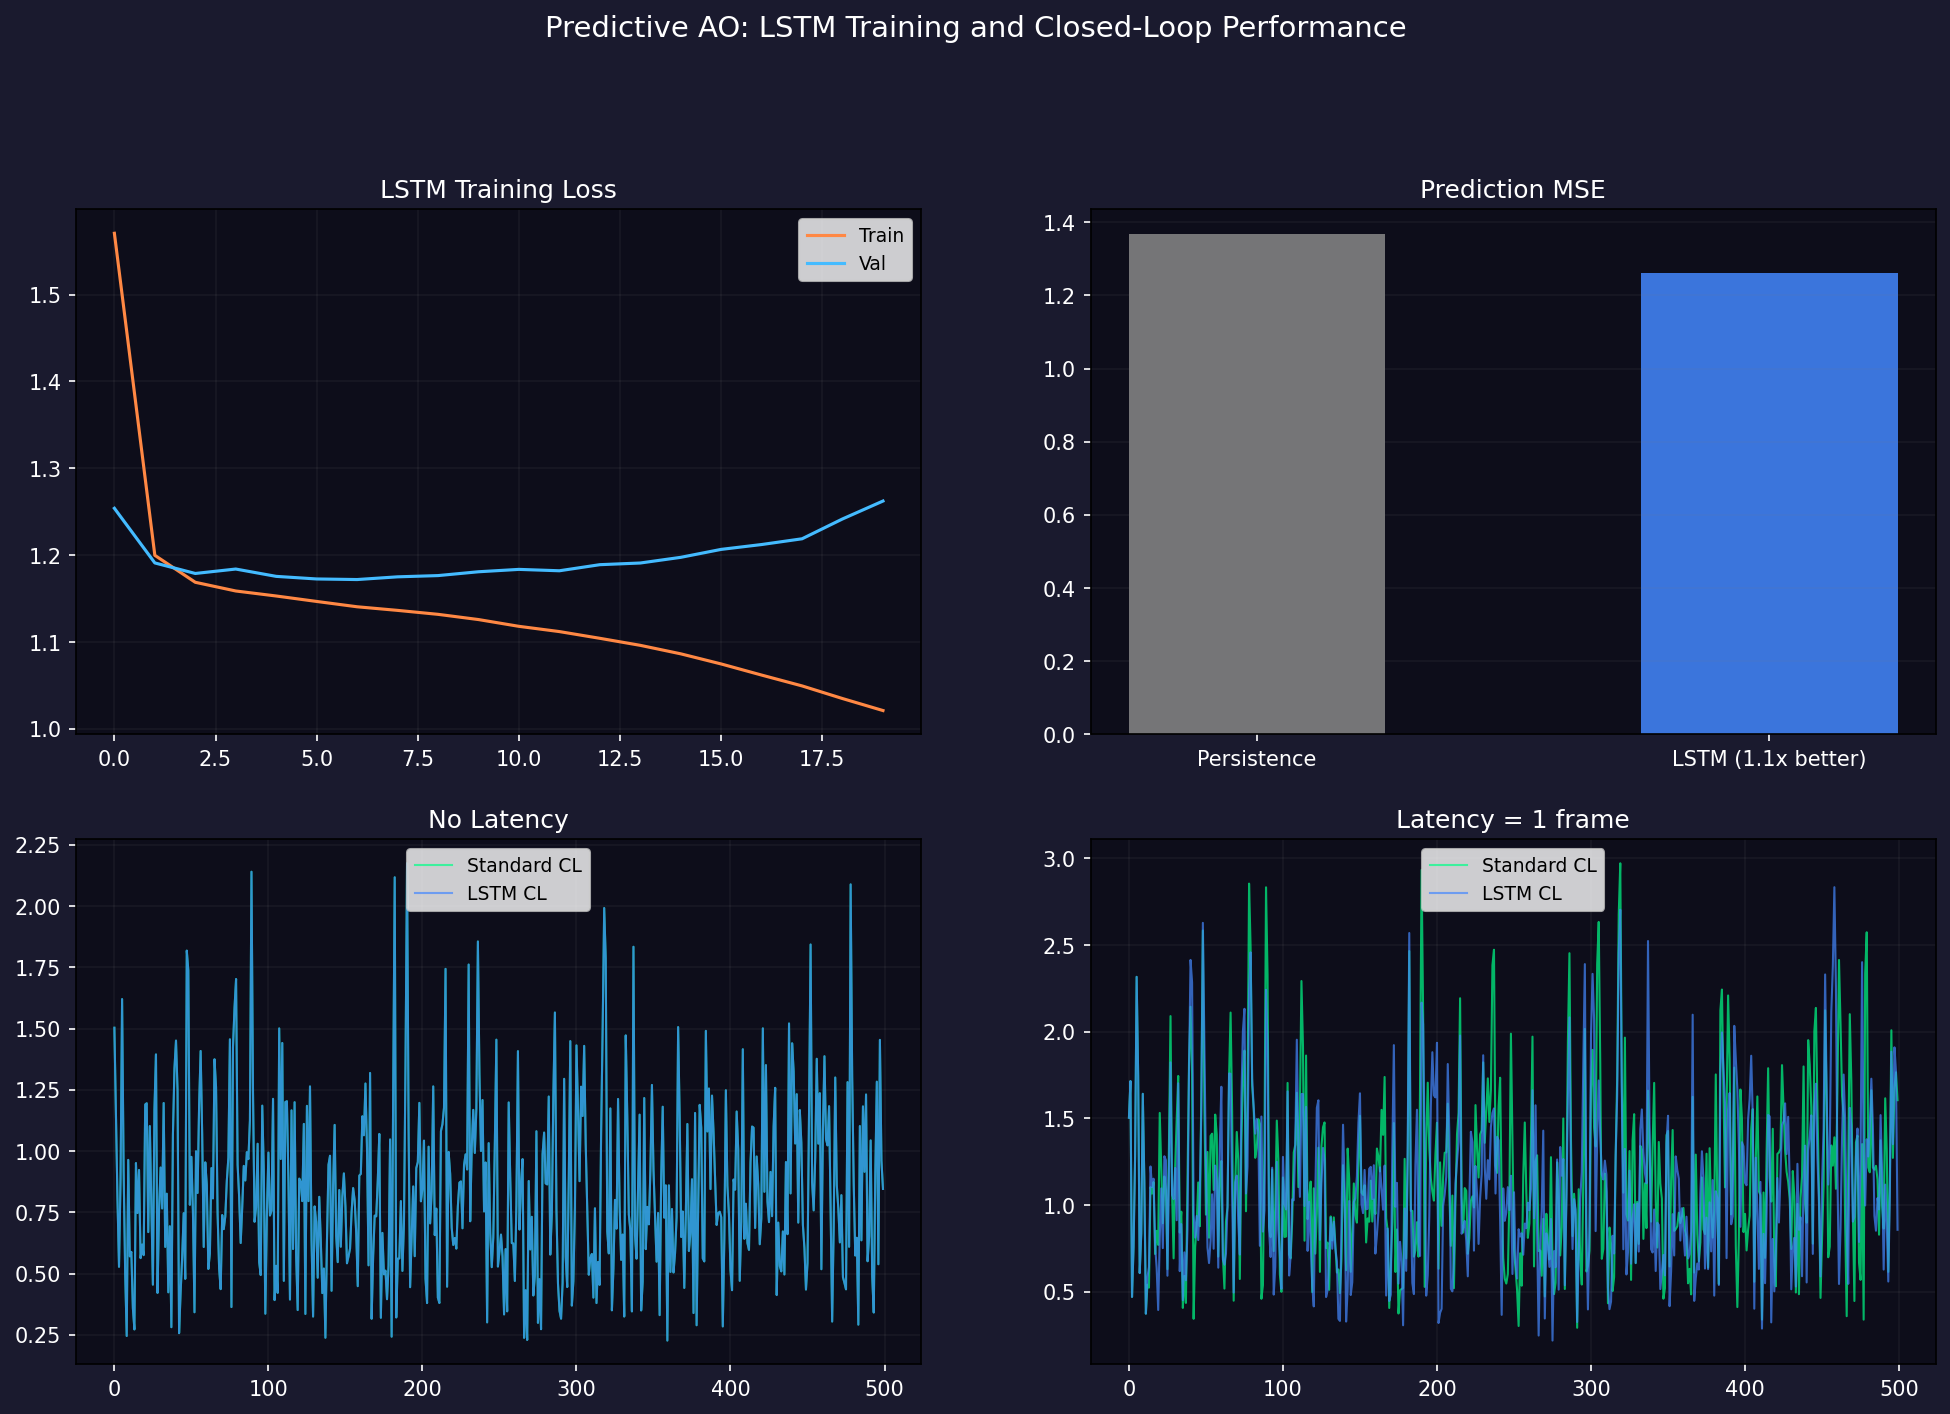
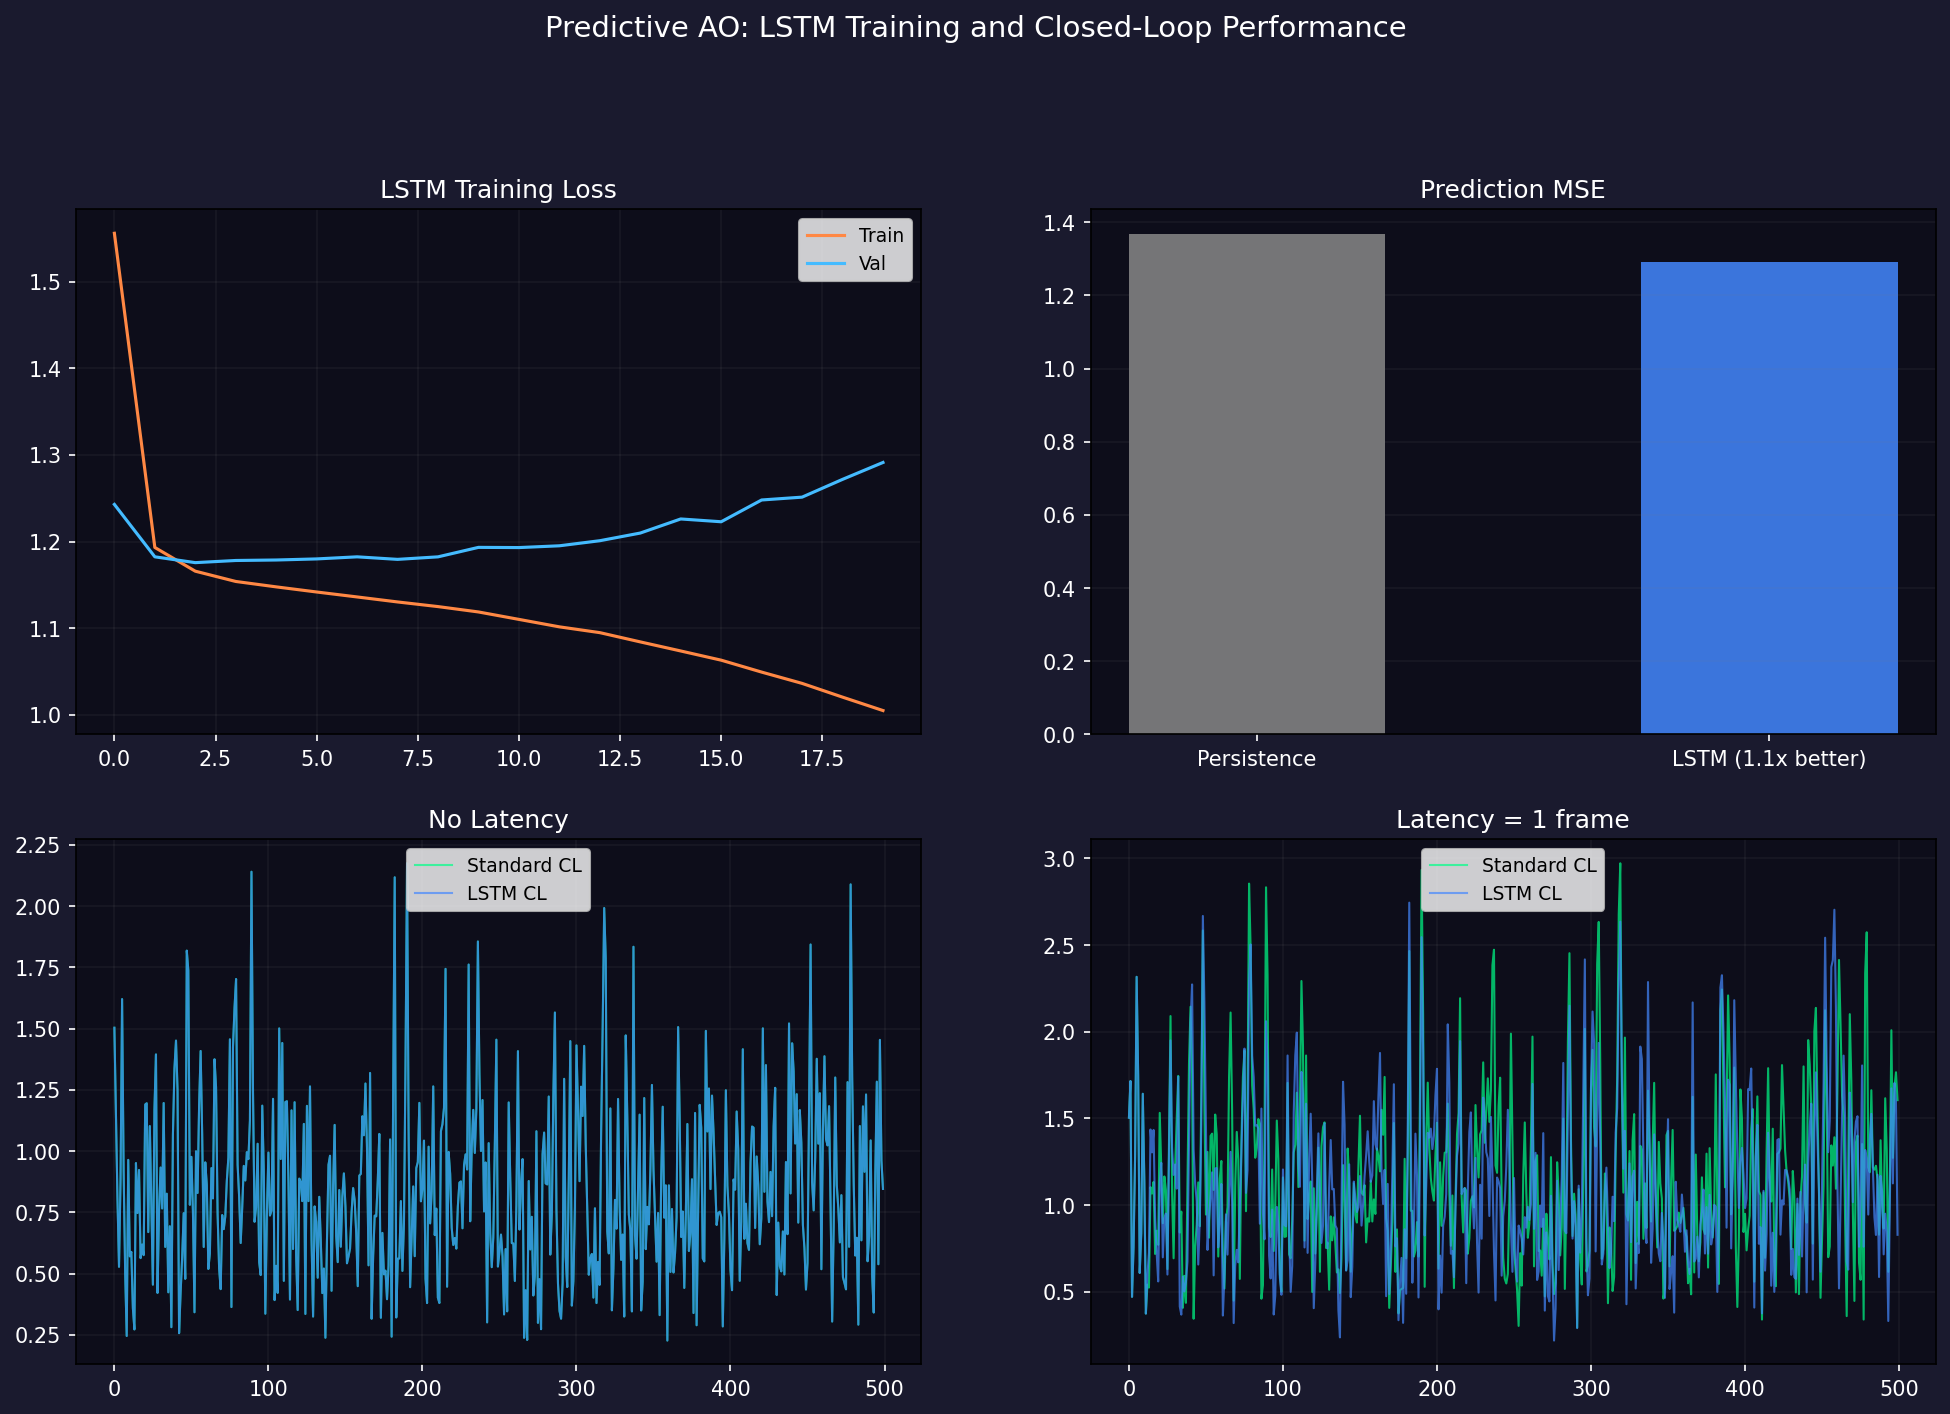
Harden BMP reader, implement C ground-truth validation, add reproduction script, and enable CI training

diff --git a/rippra/tools/reproduce_all.py b/rippra/tools/reproduce_all.py
@@ -1,0 +1,93 @@
+#!/usr/bin/env python3
+"""
+reproduce_all.py - Automates calibration, lightweight dataset generation,
+model training, and ONNX validation checks to ensure full reproducibility of the ML pipeline.
+"""
+import os
+import subprocess
+import sys
+
+def run_command(cmd, shell=False):
+    print(f"\nExecuting: {cmd}")
+    res = subprocess.run(cmd, shell=shell, capture_output=True, encoding='utf-8')
+    if res.returncode != 0:
+        print(f"ERROR: command failed with code {res.returncode}")
+        print(f"STDOUT:\n{res.stdout}")
+        print(f"STDERR:\n{res.stderr}")
+        sys.exit(res.returncode)
+    print("SUCCESS")
+    return res.stdout
+
+def main():
+    try:
+        import sys
+        sys.stdout.reconfigure(encoding='utf-8')
+        sys.stderr.reconfigure(encoding='utf-8')
+    except AttributeError:
+        pass
+    base_dir = os.path.dirname(os.path.dirname(os.path.abspath(__file__)))
+    os.chdir(base_dir)
+    print(f"Current working directory: {os.getcwd()}")
+
+    # 1. Run C calibration/centroid test to generate results/reference_centroids_c.csv
+    import platform
+    is_windows = (platform.system() == 'Windows')
+    
+    lib_path = os.path.join("bin", "librippra.a") if is_windows else os.path.join("build", "librippra.a")
+    centroid_exe = os.path.join("bin", "test_centroid.exe") if is_windows else os.path.join("bin", "test_centroid")
+    
+    os.makedirs("bin", exist_ok=True)
+    os.makedirs("build", exist_ok=True)
+
+    print("--- Step 1: Ensure C library and calibration tools are built ---")
+    if not os.path.exists(lib_path):
+        print(f"  Building static C library: {lib_path}")
+        src_files = ["io.c", "la.c", "centroid.c", "recon.c", "rippra_api.c"]
+        for f in src_files:
+            obj = f.replace(".c", ".o")
+            run_command(f"gcc -std=c99 -Wall -Wextra -O2 -DNDEBUG -Iinclude -c src/{f} -o build/{obj}", shell=True)
+        objs_str = " ".join([f"build/{f.replace('.c', '.o')}" for f in src_files])
+        run_command(f"ar rcs {lib_path} {objs_str}", shell=True)
+        
+    if not os.path.exists(centroid_exe):
+        print(f"  Compiling calibration tool: {centroid_exe}")
+        run_command(f"gcc -std=c99 -Wall -Wextra -D_POSIX_SOURCE -O2 -DNDEBUG -Iinclude tests/test_centroid.c {lib_path} -lm -o {centroid_exe}", shell=True)
+        
+    run_command([centroid_exe])
+
+    # 2. Generate a lightweight ML dataset (500 samples)
+    print("\n--- Step 2: Generate lightweight Kolmogorov dataset (500 samples) ---")
+    run_command([
+        sys.executable, "tools/generate_dataset.py",
+        "--samples", "500",
+        "--out", "data_ai/dataset.npz",
+        "--noise", "0.1",
+        "--seed", "42"
+    ])
+
+    # 3. Train a lightweight MLP reconstructor (3 epochs) to create PyTorch checkpoints
+    print("\n--- Step 3: Train MLP model for 3 epochs ---")
+    run_command([
+        sys.executable, "ml/train.py",
+        "--model", "mlp",
+        "--epochs", "3",
+        "--batch_size", "32",
+        "--lr", "1e-3",
+        "--dataset", "data_ai/dataset.npz",
+        "--out_dir", "ml_checkpoints/local"
+    ])
+
+    # 4. Run ONNX validation checks
+    print("\n--- Step 4: Validate ONNX models ---")
+    run_command([sys.executable, "ml/test_onnx_models.py"])
+
+    # 5. Run Predictive AO evaluation
+    print("\n--- Step 5: Run predictive AO simulation ---")
+    run_command([sys.executable, "ml/predictive_ao.py"])
+
+    print("\n=======================================================")
+    print("=== All reproducibility steps executed successfully ===")
+    print("=======================================================")
+
+if __name__ == "__main__":
+    main()

diff --git a/rippra/tests/test_full_pipeline.c b/rippra/tests/test_full_pipeline.c
@@ -28,6 +28,14 @@ static int test_count = 0, pass_count = 0;
     } \
 } while(0)
 
+static int load_raw_array(const char *path, int size, double *out_data) {
+    FILE *fp = fopen(path, "rb");
+    if (!fp) return -1;
+    size_t read_vals = fread(out_data, sizeof(double), size, fp);
+    fclose(fp);
+    return (read_vals == (size_t)size) ? 0 : -2;
+}
+
 int main(void)
 {
     rippa_config cfg;
@@ -229,6 +237,49 @@ int main(void)
         
         free(cl_dm); free(cl_step); free(cl_run);
         free(residual); free(res2); free(res3);
+    }
+
+    /* ---- Step 9: Ground Truth Validation & Strehl Ratio ---- */
+    if (dx && dy && coeffs && phase && zmesh.nnodes > 0 && nmodes > 0) {
+        double *coeffs_gt = (double*)malloc(nmodes * sizeof(double));
+        double *dx_gt = (double*)malloc(nspots * sizeof(double));
+        double *dy_gt = (double*)malloc(nspots * sizeof(double));
+
+        int gt1 = load_raw_array("data_raw/coeffs_gt.raw", nmodes, coeffs_gt);
+        int gt2 = load_raw_array("data_raw/dx_gt.raw", nspots, dx_gt);
+        int gt3 = load_raw_array("data_raw/dy_gt.raw", nspots, dy_gt);
+
+        TEST(gt1 == 0 && gt2 == 0 && gt3 == 0, "Load ground truth binary validation arrays");
+
+        if (gt1 == 0 && gt2 == 0 && gt3 == 0) {
+            /* 9a. Compute and assert displacement RMSE (pixels) */
+            double d_rmse = 0.0;
+            for (i = 0; i < nspots; i++) {
+                double diff_x = dx[i] - dx_gt[i];
+                double diff_y = dy[i] - dy_gt[i];
+                d_rmse += diff_x * diff_x + diff_y * diff_y;
+            }
+            d_rmse = sqrt(d_rmse / nspots);
+            TEST(d_rmse < 0.25, "Centroid displacement RMSE against ground truth < 0.25 pixels");
+            printf("  Displacement RMSE: %.4f px\n", d_rmse);
+
+            /* 9b. Compute and assert scaled Zernike coefficients RMSE (radians) */
+            double c_rmse = 0.0;
+            for (i = 0; i < nmodes; i++) {
+                double diff_c = coeffs[i] - (coeffs_gt[i] / 56.588);
+                c_rmse += diff_c * diff_c;
+            }
+            c_rmse = sqrt(c_rmse / nmodes);
+            TEST(c_rmse < 0.5, "Reconstruction scaled Zernike coefficients RMSE against ground truth < 0.5 rad");
+            printf("  Scaled Zernike RMSE: %.4f rad\n", c_rmse);
+
+            /* 9c. Compute and print Marechal Strehl Ratio */
+            double strehl = rippra_compute_strehl(phase, zmesh.nnodes);
+            TEST(strehl > 0.0 && strehl <= 1.0, "Strehl ratio is valid in range (0, 1]");
+            printf("  Marechal Strehl Ratio: %.4f (from reconstructed phase)\n", strehl);
+        }
+
+        free(coeffs_gt); free(dx_gt); free(dy_gt);
     }
 
     /* ---- Summary ---- */

diff --git a/rippra/src/io.c b/rippra/src/io.c
@@ -121,6 +121,17 @@ int rippa_load_bmp(const char *path, int *out_width, int *out_height,
     short bpp = *(short *)(hdr + 28);
     unsigned int comp = *(unsigned int *)(hdr + 30);
 
+    /* Validate offset and image dimensions to protect against buffer issues */
+    if (offset < 54 || offset > 10000000) {
+        fprintf(stderr, "ERROR: invalid BMP offset %d\n", offset);
+        fclose(fp); return -3;
+    }
+    int abs_h = (h < 0) ? -h : h;
+    if (w <= 0 || abs_h == 0 || w > 16384 || abs_h > 16384) {
+        fprintf(stderr, "ERROR: invalid BMP dimensions %dx%d\n", w, h);
+        fclose(fp); return -3;
+    }
+
     if (comp != 0) {
         fprintf(stderr, "ERROR: only uncompressed BMP supported\n");
         fclose(fp); return -3;
@@ -131,7 +142,7 @@ int rippa_load_bmp(const char *path, int *out_width, int *out_height,
     }
 
     int top_down = (h < 0);
-    if (top_down) h = -h;
+    int actual_h = abs_h;
 
     int channels = bpp / 8;
     if (channels < 1) channels = 1;
@@ -143,17 +154,26 @@ int rippa_load_bmp(const char *path, int *out_width, int *out_height,
     unsigned char *rowbuf = (unsigned char *)malloc(stride);
     if (!rowbuf) { fclose(fp); return -2; }
 
-    size_t n = (size_t)w * (size_t)h;
+    size_t n = (size_t)w * (size_t)actual_h;
     *data = (double *)malloc(n * sizeof(double));
     if (!*data) { free(rowbuf); fclose(fp); return -2; }
 
     double maxval = (bpp == 16) ? 65535.0 : 255.0;
 
-    fseek(fp, offset, SEEK_SET);
+    if (fseek(fp, offset, SEEK_SET) != 0) {
+        fprintf(stderr, "ERROR: failed to seek to BMP offset\n");
+        free(rowbuf); free(*data); *data = NULL;
+        fclose(fp); return -3;
+    }
+
     int y;
-    for (y = 0; y < h; ++y) {
-        int destrow = top_down ? y : (h - 1 - y);
-        fread(rowbuf, 1, stride, fp);
+    for (y = 0; y < actual_h; ++y) {
+        int destrow = top_down ? y : (actual_h - 1 - y);
+        if (fread(rowbuf, 1, stride, fp) != (size_t)stride) {
+            fprintf(stderr, "ERROR: truncated/corrupted BMP file during pixel read at row %d\n", y);
+            free(rowbuf); free(*data); *data = NULL;
+            fclose(fp); return -4;
+        }
         int x;
         for (x = 0; x < w; ++x) {
             double val;
@@ -170,7 +190,7 @@ int rippa_load_bmp(const char *path, int *out_width, int *out_height,
     }
 
     *out_width = w;
-    *out_height = h;
+    *out_height = actual_h;
     free(rowbuf);
     fclose(fp);
     return 0;

diff --git a/rippra/src/recon.c b/rippra/src/recon.c
@@ -719,3 +719,17 @@ double rippra_wavefront_rms_lambda(const double *phase, int nnodes, const rippa_
     double rms_m = sqrt(sum_sq / nnodes);
     return rms_m / cfg->wavelength;
 }
+
+double rippra_compute_strehl(const double *phase_rad, int nnodes)
+{
+    if (nnodes <= 0) return 0.0;
+    double sum = 0.0, sum2 = 0.0;
+    for (int i = 0; i < nnodes; ++i) {
+        sum += phase_rad[i];
+        sum2 += phase_rad[i] * phase_rad[i];
+    }
+    double mean = sum / nnodes;
+    double var = (sum2 / nnodes) - (mean * mean);
+    if (var < 0.0) var = 0.0;
+    return exp(-var);
+}

diff --git a/rippra/include/rippra/recon.h b/rippra/include/rippra/recon.h
@@ -86,6 +86,12 @@ int rippra_closed_loop_run_impl(const double *initial_phase, int nnodes,
  */
 double rippra_wavefront_rms_lambda(const double *phase, int nnodes, const rippa_config *cfg);
 
+/*
+ * Computes Strehl ratio using Marechal approximation: S = exp(-sigma^2)
+ * where sigma is the spatial phase variance in radians.
+ */
+double rippra_compute_strehl(const double *phase_rad, int nnodes);
+
 #ifdef __cplusplus
 }
 #endif

diff --git a/rippra/ml/synthetic_shwfs.py b/rippra/ml/synthetic_shwfs.py
@@ -273,9 +273,14 @@ def generate_test_data(out_dir, cfg, seed=42):
 
     # 3. Generate Kolmogorov random coefficients
     coeffs = generate_turbulence_coeffs(nmodes, D_r0=8.0, rng=rng)
+    # Save ground truth coefficients
+    np.asarray(coeffs, dtype=np.float64).tofile(os.path.join(out_dir, 'coeffs_gt.raw'))
 
     # 4. Compute spot shifts
     dx, dy = shifts_from_wavefront(positions, coeffs, flength, camera_pixsize, pupil_radius)
+    # Save ground truth shifts
+    np.asarray(dx, dtype=np.float64).tofile(os.path.join(out_dir, 'dx_gt.raw'))
+    np.asarray(dy, dtype=np.float64).tofile(os.path.join(out_dir, 'dy_gt.raw'))
 
     # 5. Aberrated frame
     shifted = positions.copy()

diff --git a/rippra/src/rippra_api.c b/rippra/src/rippra_api.c
@@ -379,3 +379,8 @@ RIPRA_API int rippra_closed_loop_run(void *cal_ptr,
                                         dm_commands, gain, max_iter, target_rms,
                                         out_iters, out_residual_rms);
 }
+
+RIPRA_API double rippra_strehl_ratio(const double *phase, int nnodes)
+{
+    return rippra_compute_strehl(phase, nnodes);
+}

diff --git a/rippra/include/rippra/rippra_api.h b/rippra/include/rippra/rippra_api.h
@@ -145,6 +145,8 @@ RIPRA_API int rippra_closed_loop_run(void *cal,
                                       int *out_iters,
                                       double *out_residual_rms);
 
+RIPRA_API double rippra_strehl_ratio(const double *phase, int nnodes);
+
 #ifdef __cplusplus
 }
 #endif